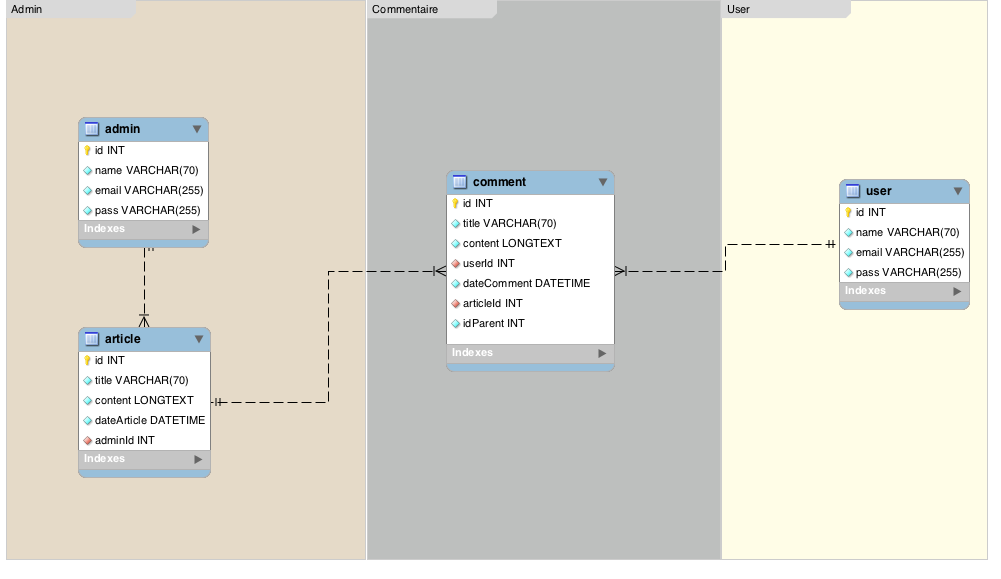
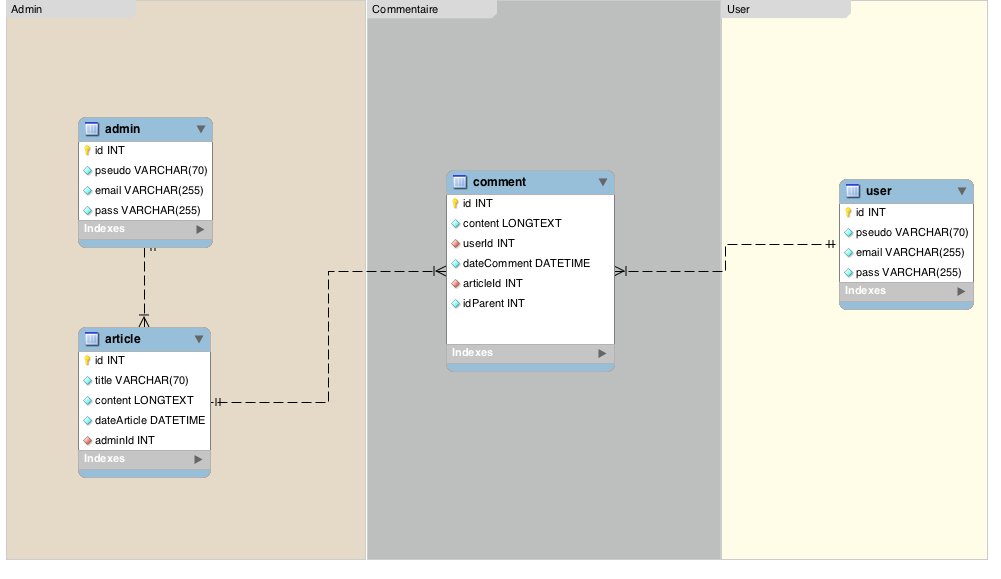
Update of SQL file: Admin & User: index unique
Change the name of the column 'name' by 'pseudo'

For the table Article, add an index unique for the title column

Deliting of the colum Title in comment table

diff --git a/model/classes/manager/ManagerAdmin.php b/model/classes/manager/ManagerAdmin.php
@@ -7,7 +7,7 @@
 			$this->_bdd = new PDO('mysql:host=localhost;dbname=Blog;charset=utf8;', 'root', 'root', array(PDO::ATTR_ERRMODE=>PDO::ERRMODE_EXCEPTION));
 		}
 
-		//Architecture du manager en CRUD + function SAVE =  mix entre Create et Update + fonction ReadAll + functions verification email et name
+		//Architecture du manager en CRUD + function SAVE =  mix entre Create et Update + fonction ReadAll + functions verification email et pseudo
 
 		//fonction Read qui permet de sélectionner un admin
 		public function read($data){
@@ -31,11 +31,11 @@
 					$this->_req->closeCursor();
 					return null;
 				}
-			}elseif (is_string($data)) { //data représente le name
-				//on prepare la requete filtré par le name	
-				$this->_req = $this->_bdd->prepare('SELECT * FROM admin WHERE name =:name');
+			}elseif (is_string($data)) { //data représente le pseudo
+				//on prepare la requete filtré par le pseudo	
+				$this->_req = $this->_bdd->prepare('SELECT * FROM admin WHERE pseudo =:pseudo');
 				//on bind le filtre avec la valeur de $data
-				$this->_req->bindValue(":name", $data, PDO::PARAM_STR);
+				$this->_req->bindValue(":pseudo", $data, PDO::PARAM_STR);
 				//on execute la requête
 				$executeIsOk = $this->_req->execute();
 				//on retourne un nouvel objet Admin
@@ -57,7 +57,7 @@
 		public function readAll(){
 			$admins = [];
 			//on prepare la requête pour avoir l'ensemble des admins
-			$this->_req = $this->_bdd->query('SELECT * FROM admin ORDER BY name');
+			$this->_req = $this->_bdd->query('SELECT * FROM admin ORDER BY pseudo');
 			while ($data = $this->_req->fetch(PDO::FETCH_ASSOC)) {
 				$admins[] = new Admin($data);
 			}
@@ -79,9 +79,9 @@
 		//fonction create qui ajoute un admin à la bdd
 		private function create(Admin $data){
 			//on prepare la requête d'ajout d'un nouveau admin dans la BDD
-			$this->_req = $this->_bdd->prepare('INSERT INTO admin(name, pass, email) VALUES (:name, :pass, :email)');
+			$this->_req = $this->_bdd->prepare('INSERT INTO admin(pseudo, pass, email) VALUES (:pseudo, :pass, :email)');
 			//on bind les variables
-			$this->_req->bindValue(":name", $data->getName());
+			$this->_req->bindValue(":pseudo", $data->getPseudo());
 			$this->_req->bindValue(":pass", $dara->getPass());
 			$this->_req->bindValue(":email", $dara->getEmail());
 			//on exectue la requête
@@ -140,10 +140,10 @@
 		//fonction update qui modifie les attributs du admin en paramètre
 		private function update(Admin $data){
 			//on prepare la requête qui modififie dans la bdd le admin en paramètre
-			$this->_req = $this->_bdd->prepare('UPDATE admin SET name=:name, pass=:pass, email=:email WHERE id=:id LIMIT 1 ');
+			$this->_req = $this->_bdd->prepare('UPDATE admin SET pseudo=:pseudo, pass=:pass, email=:email WHERE id=:id LIMIT 1 ');
 			//on bind les variables
 			$this->_req->bindValue(':id', $data->getId(), PDO::PARAM_INT);
-			$this->_req->bindValue(":name", $data->getName(), PDO::PARAM_STR);
+			$this->_req->bindValue(":pseudo", $data->getPseudo(), PDO::PARAM_STR);
 			$this->_req->bindValue(":pass", $data->getPass(), PDO::PARAM_STR);
 			$this->_req->bindValue(":email", $data->getEmail(), PDO::PARAM_STR);
 			//on exectue la requête
@@ -166,12 +166,12 @@
 				return $this->update($data);
 			}
 		}
-		//fonction check qui vérifie s'il n'y a pas déjà un admin avec le même name ou la même adresse mail
-		public function checkName(Admin $data){
-			//on prepare la requete filtré par le name
-			$this->_req = $this->_bdd->prepare('SELECT * FROM admin WHERE name =:name');
+		//fonction check qui vérifie s'il n'y a pas déjà un admin avec le même pseudo ou la même adresse mail
+		public function checkPseudo(Admin $data){
+			//on prepare la requete filtré par le pseudo
+			$this->_req = $this->_bdd->prepare('SELECT * FROM admin WHERE pseudo =:pseudo');
 			//on bind les filtres
-			$this->_req->bindValue(":name", $data->getName(), PDO::PARAM_STR);
+			$this->_req->bindValue(":pseudo", $data->getPseudo(), PDO::PARAM_STR);
 			//on execute la requête
 			$this->_req->execute();
 			//on retourne un bouléen

diff --git a/model/classes/manager/ManagerUser.php b/model/classes/manager/ManagerUser.php
@@ -6,7 +6,7 @@
 		public function __construct(){
 			$this->_bdd = new PDO('mysql:host=localhost;dbname=Blog;charset=utf8;', 'root', 'root', array(PDO::ATTR_ERRMODE=>PDO::ERRMODE_EXCEPTION));
 		}
-		//Architecture du manager en CRUD + function SAVE =  mix entre Create et Update + fonction ReadAll + functions verification email et name
+		//Architecture du manager en CRUD + function SAVE =  mix entre Create et Update + fonction ReadAll + functions verification email et pseudo
 		//fonction Read
 		public function read($data){
 			if (is_int($data)) { //data représente l'ID
@@ -31,11 +31,11 @@
 				}
 				
 			}
-			if (is_string($data)) { //data représente le name
-				//on prepare la requete filtré par le name	
-				$this->_req = $this->_bdd->prepare('SELECT * FROM user WHERE name =:name');
+			if (is_string($data)) { //data représente le pseudo
+				//on prepare la requete filtré par le pseudo	
+				$this->_req = $this->_bdd->prepare('SELECT * FROM user WHERE pseudo =:pseudo');
 				//on bind le filtre avec la valeur de $data
-				$this->_req->bindValue(":name", $data, PDO::PARAM_STR);
+				$this->_req->bindValue(":pseudo", $data, PDO::PARAM_STR);
 				//on execute la requête
 				$executeIsOk = $this->_req->execute();
 				//on retourne un nouvel objet User
@@ -57,7 +57,7 @@
 		public function readAll(){
 			$users = [];
 			//on prepare la requête pour avoir l'ensemble des users
-			$this->_req = $this->_bdd->query('SELECT * FROM user ORDER BY name');
+			$this->_req = $this->_bdd->query('SELECT * FROM user ORDER BY pseudo');
 			while ($data = $this->_req->fetch(PDO::FETCH_ASSOC)) {
 				$users[] = new User($data);
 			}
@@ -79,9 +79,9 @@
 		//fonction create qui ajoute un user à la bdd
 		private function create(User $data){
 			//on prepare la requête d'ajout d'un nouveau user dans la BDD
-			$this->_req = $this->_bdd->prepare('INSERT INTO user(name, pass, email) VALUES (:name, :pass, :email)');
+			$this->_req = $this->_bdd->prepare('INSERT INTO user(pseudo, pass, email) VALUES (:pseudo, :pass, :email)');
 			//on bind les variables
-			$this->_req->bindValue(":name", $data->getName());
+			$this->_req->bindValue(":pseudo", $data->getPseudo());
 			$this->_req->bindValue(":pass", $dara->getPass());
 			$this->_req->bindValue(":email", $dara->getEmail());
 			//on exectue la requête
@@ -141,10 +141,10 @@
 		//fonction update qui modifie les attributs du user en paramètre
 		private function update(User $data){
 			//on prepare la requête qui modififie dans la bdd le user en paramètre
-			$this->_req = $this->_bdd->prepare('UPDATE user SET name=:name, pass=:pass, email=:email WHERE id=:id LIMIT 1 ');
+			$this->_req = $this->_bdd->prepare('UPDATE user SET pseudo=:pseudo, pass=:pass, email=:email WHERE id=:id LIMIT 1 ');
 			//on bind les variables
 			$this->_req->bindValue(':id', $data->getId(), PDO::PARAM_INT);
-			$this->_req->bindValue(":name", $data->getName(), PDO::PARAM_STR);
+			$this->_req->bindValue(":pseudo", $data->getPseudo(), PDO::PARAM_STR);
 			$this->_req->bindValue(":pass", $data->getPass(), PDO::PARAM_STR);
 			$this->_req->bindValue(":email", $data->getEmail(), PDO::PARAM_STR);
 			//on exectue la requête
@@ -167,12 +167,12 @@
 				return $this->update($data);
 			}
 		}
-		//fonction check qui vérifie s'il n'y a pas déjà un user avec le même name ou la même adresse mail
-		public function checkName(User $data){
-			//on prepare la requete filtré par le name
-			$this->_req = $this->_bdd->prepare('SELECT * FROM user WHERE name =:name');
+		//fonction check qui vérifie s'il n'y a pas déjà un user avec le même pseudo ou la même adresse mail
+		public function checkPseudo(User $data){
+			//on prepare la requete filtré par le pseudo
+			$this->_req = $this->_bdd->prepare('SELECT * FROM user WHERE pseudo =:pseudo');
 			//on bind les filtres
-			$this->_req->bindValue(":name", $data->getName(), PDO::PARAM_STR);
+			$this->_req->bindValue(":pseudo", $data->getPseudo(), PDO::PARAM_STR);
 			//on execute la requête
 			$this->_req->execute();
 			//on retourne un bouléen

diff --git a/model/classes/User.php b/model/classes/User.php
@@ -1,7 +1,7 @@
 <?php 
 	class User{
 		protected $_id;
-		protected $_name;
+		protected $_pseudo;
 		protected $_email;
 		protected $_pass;
 		//fonction constructeur
@@ -21,8 +21,8 @@
 		public function getId(){
 			return $this->_id;
 		}
-		public function getName(){
-			return $this->_name;
+		public function getPseudo(){
+			return $this->_pseudo;
 		}
 		public function getEmail(){
 			return $this->_email;
@@ -37,9 +37,9 @@
 				$this->_id = $id;
 			}
 		}
-		public function setName($name){
-			if (is_string($name) && (strlen($name) <= 70)) {
-				$this->_name = $name;
+		public function setPseudo($pseudo){
+			if (is_string($pseudo) && (strlen($pseudo) <= 70)) {
+				$this->_pseudo = $pseudo;
 			}
 		}
 		//ajout d'une regex pour vérifier la conformité de l'adresse mail

diff --git a/model/classes/admin.php b/model/classes/admin.php
@@ -1,7 +1,7 @@
 <?php 
 	class Admin{
 		protected $_id;
-		protected $_name;
+		protected $_pseudo;
 		protected $_email;
 		protected $_pass;
 
@@ -27,8 +27,8 @@
 		public function getId(){
 			return $this->_id;
 		}
-		public function getName(){
-			return $this->_name;
+		public function getPseudo(){
+			return $this->_pseudo;
 		}
 		public function getEmail(){
 			return $this->_email;
@@ -44,9 +44,9 @@
 				$this->_id = $id;
 			}
 		}
-		public function setName($name){
-			if (is_string($name) && (strlen($name) <= 70)) {
-				$this->_name = $name;
+		public function setPseudo($pseudo){
+			if (is_string($pseudo) && (strlen($pseudo) <= 70)) {
+				$this->_pseudo = $pseudo;
 			}
 		}
 

diff --git a/sessions/session15-06-2017.md b/sessions/session15-06-2017.md
@@ -3,7 +3,7 @@
 ## Some modifications of the previous session: 
 * For the tables User and Admin, Add an index unique for the email column
 * Delete the functions checkName and checkEmail in User and Admin classes
-* Change the nae of the column 'name' by 'pseudo'
+* Change the name of the column 'name' by 'pseudo'
 * Delete the attribut req of the classes Manager and replace them by a simple variable
 
 
